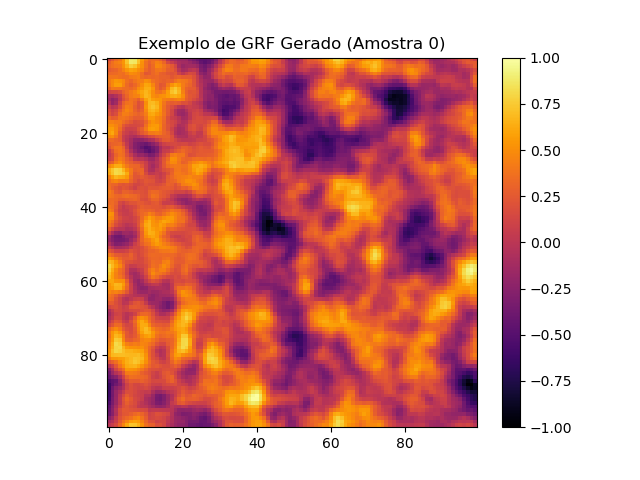
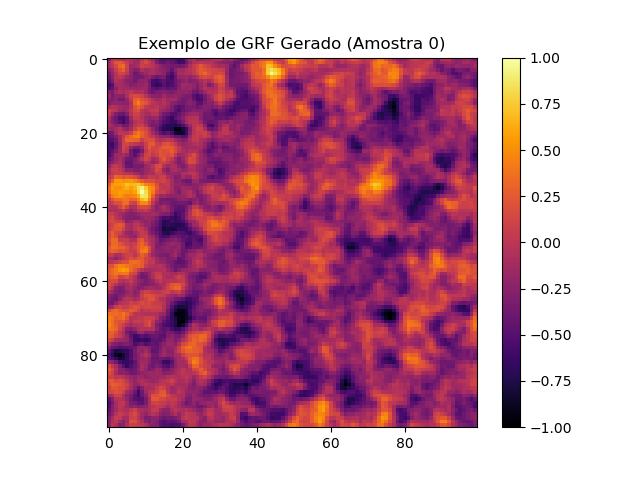
docs: Edições do usuário no README e atualização das imagens de amostra

diff --git a/README.md b/README.md
@@ -2,17 +2,17 @@
 
 ## Objetivo do Projeto
 
-O **PINO Polymer Webmap** é a evolução definitiva (V3) da nossa arquitetura de predição de densidades poliméricas. Nascido como uma Fourier Neural Operator (FNO) clássica em versões anteriores, o projeto tem como objetivo principal **transcender o paradigma de mapeamento puramente estatístico (dados para dados) em direção a um aprendizado profundo guiado pelas leis fundamentais da física termodinâmica**.
+O **PINO Polymer Webmap** é a versão mais atualizada (V3) da nossa arquitetura de predição de densidades poliméricas. Nascido como uma Fourier Neural Operator (FNO) clássica em versões anteriores, o projeto tem como objetivo principal alterar **o paradigma de mapeamento puramente estatístico (dados para dados) em direção a um aprendizado profundo guiado pelas leis fundamentais da física termodinâmica**.
 
-A base teórica e de engenharia desta V3 introduz o **Physics-Informed Neural Operator (PINO)**, almejando criar um modelo capaz de generalizar cenários de confinamento e interação eletrostática sobre polieletrólitos sem depender exclusivamente de simulações exaustivas de Self-Consistent Field Theory (SCFT).
+A base teórica e de engenharia desta V3 introduz o **Physics-Informed Neural Operator (PINO)**, buscando criar um modelo capaz de generalizar cenários de confinamento e interação eletrostática sobre polieletrólitos sem depender exclusivamente de simulações exaustivas de Self-Consistent Field Theory (SCFT).
 
-Os principais pilares teóricos discutidos que sustentam este objetivo são:
+Os principais pontos teóricos que sustentam este objetivo são:
 1. **Representação Contínua da Carga**: Utilização de coeficientes de Fourier para modelar sequências de carga do polímero, comprimindo um espaço combinatório colossal para um espaço de frequência reduzido e interpretável.
-2. **Diversidade Topológica Infinita (O Fator Surpresa)**: Substituição de cenários rígidos de ancoragem por *Gaussian Random Fields (GRFs)* com parâmetros Matern para simular as mais extremas e caóticas topologias de confinamento e potenciais. O espaço paramétrico que dita a topologia desses campos e as propriedades termodinâmicas do polímero é amostrado usando **Latin Hypercube Sampling (LHS)**, garantindo cobertura estatística perfeita sem viés.
-3. **Exploração da Simetria Física (Data Augmentation D4)**: Pelo fato da física de matrizes de confinamento e a resposta polimérica ($\phi$) serem espacialmente isotrópicas e invariantes a rotações e espelhamentos, aplica-se o Grupo de Simetria D4 (rotações 90º, 180º, 270º e reflexões) offline para multiplicar exponencialmente o *Ground Truth* do SCFT sem custo computacional, mitigando completamente o *overfitting*.
-4. **Treinamento de Sobolev (O Chute Analítico)**: Injeção das derivadas do modelo na Função de Custo (*Loss*). A rede não aprende apenas a densidade $\phi(\mathbf{r})$, mas também a sua suscetibilidade térmica exata $\left( \frac{\delta \phi}{\delta V} \right)$, multiplicando a riqueza informacional de cada simulação.
+2. **Diversidade Topológica Infinita **: Substituição de cenários rígidos de ancoragem por *Gaussian Random Fields (GRFs)* com parâmetros para simular as mais extremas topologias de confinamento e potenciais. O espaço paramétrico que dita a topologia desses campos e as propriedades termodinâmicas do polímero é amostrado usando **Latin Hypercube Sampling (LHS)**, garantindo uma boa cobertura estatística.
+3. **Exploração da Simetria Física (Data Augmentation D4)**: Pelo fato da física de matrizes de confinamento e a resposta polimérica ($\phi$) serem espacialmente isotrópicas e invariantes a rotações e espelhamentos, aplica-se o Grupo de Simetria D4 (rotações 90º, 180º, 270º e reflexões) offline para multiplicar exponencialmente o *Ground Truth* do SCFT sem custo computacional, mitigando o *overfitting*, aumentando o espaço de fase do treino e evitando respostas paradoxais como artefatos do treino.
+4. **Treinamento de Sobolev**: Injeção das derivadas do modelo na Função de Custo (*Loss*). A rede não aprende apenas a densidade $\phi(\mathbf{r})$, mas também a sua suscetibilidade térmica exata $\left( \frac{\delta \phi}{\delta V} \right)$, multiplicando a riqueza informacional de cada simulação.
 5. **Resíduos Físicos & Aprendizado Ativo**: Utilização de dezenas de milhares de pontos de colocação sem rótulo, onde o PINO é punido matematicamente se violar as equações diferenciais de Edwards e Debye-Hückel. Se a física vacilar e a incerteza subir, um ciclo de Active Learning chama o SCFT sob demanda para corrigir a falha.
-6. **Precisão Absoluta no Front-end**: Como o PINO prevê o resultado em 0.05 segundos com extrema precisão, sua inferência servirá como o chute inicial para um solucionador de passo único (Single-Step Newton-Raphson), garantindo conservação de massa e eletroneutralidade prefeita no WebApp.
+6. **Precisão Ampliada no Front-end**: Como o PINO prevê o resultado em 0.05 segundos com extrema precisão, sua inferência servirá como o chute inicial para um solucionador de passo único (Single-Step Newton-Raphson), garantindo conservação de massa e eletroneutralidade prefeita no WebApp.
 
 ---
 